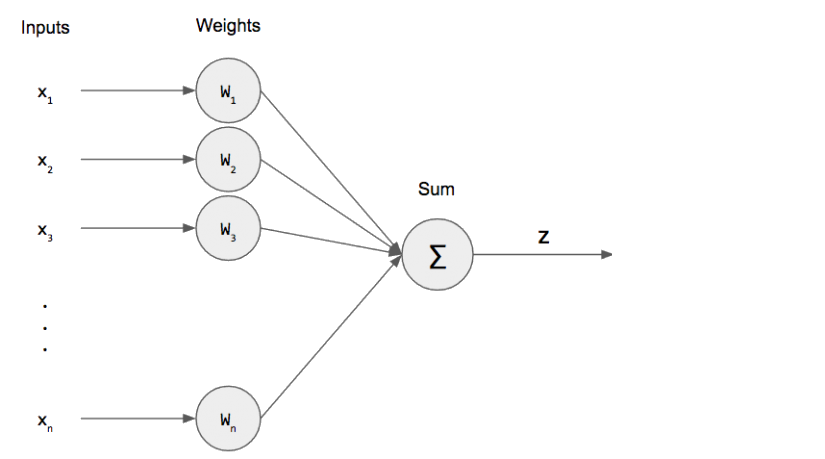
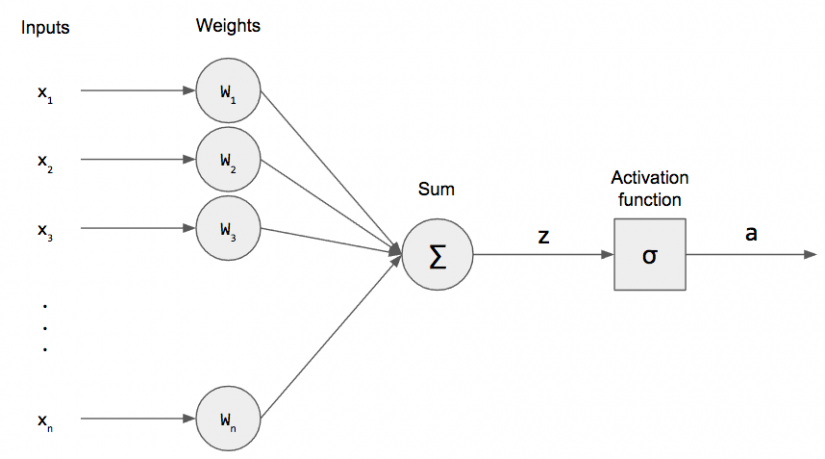
Add commantes

Changed region(s): [[0.7273, 0.366, 1.0, 0.6405], [0.9091, 0.488, 0.9394, 0.5185]]

diff --git a/Perceptron Algorithm/FileModification.java b/Perceptron Algorithm/FileModification.java
@@ -6,29 +6,38 @@ import java.io.IOException;
 import java.io.PrintWriter;
 import java.nio.charset.Charset;
 import java.nio.file.Files;
-import java.nio.file.Path;
 import java.util.ArrayList;
 import java.util.stream.Stream;
 
+/**
+ * @author Moshe
+ * @since 4/4/2018
+ */
 public class FileModification {
 
 	private File file;
 	private long numOfLines;
 
 	/**
-	 * 
 	 * @param String path - path of a file
 	 * @throws IOException
 	 */
 	public FileModification(String path) throws IOException {
 
 		file = new File(path);
-		if(!file.exists()) { 
+		if(!file.exists()) {
+
 			throw new FileNotFoundException("Could not find file: " + file.getName());
+
 		}
 		numOfLines = -1;
 	}
 
+	/**
+	 * 
+	 * @return The number of lines in the file.
+	 * @throws IOException
+	 */
 	public long numOfLinesInFile() throws IOException
 	{
 		if(numOfLines == -1){
@@ -40,18 +49,22 @@ public class FileModification {
 		return numOfLines;
 	}
 
-	/*
+	/**
 	 * 
+	 * @param percent - Array preserves the desired distribution of the number of rows per file in percentages.
+	 * @param numOfSkipHeaderLine - Number of title rows that we need to skip and don't read.
+	 * @return - Array of ArrayList<String>. each ArrayList<String> holds rows according to the percentages given to the function.
 	 */
-	public ArrayList<String>[] splitRandomly(int[] percent,int numOfSkipHeaderLine)
+	public ArrayList<String>[] splitFile(int[] percent,int numOfSkipHeaderLine)
 	{
 		long[] linesForThePercent = null;
 
-		try {
+		try {//Calculate how many actual rows fit for each percentage
 			linesForThePercent = CalculateLines(percent,numOfLinesInFile(),numOfSkipHeaderLine);
 		} catch (IOException e1) {
 			e1.printStackTrace();
 		}
+		//The array is returned
 		ArrayList<String>[] testAndTry = new ArrayList[linesForThePercent.length];
 
 
@@ -66,43 +79,53 @@ public class FileModification {
 
 			for (int i = 0; i < linesForThePercent.length; i++) {
 
+				//Create a file that contain the rows for a specified percent
 				writer = new PrintWriter(getFilePathWithoutName() + "/" + getFileNameWhitoutType() + "_" + i + "." + getFileType(), "UTF-8");
-				testAndTry[i] = new ArrayList<>();
 				
+				testAndTry[i] = new ArrayList<>();
+
 				for (int j = 0; j < linesForThePercent[i]; j++) {
 					String s = br.readLine();
 					testAndTry[i].add(s);
 					writer.println(s);
 				}
-				
 				writer.close();
 			}
 		}
 		catch (Exception e) {
 			e.printStackTrace();
 		}
-		finally
-		{
-		}
+
 		return testAndTry;
 	}
 
+	//For example: for folder/somefile.csv return .csv
 	private String getFileType() {
 		return file.getName().substring(file.getName().indexOf(".") + 1);
 	}
 
+	//For example: for folder/somefile.csv return somefile
 	private String getFileNameWhitoutType() {
 		return file.getName().substring(0,file.getName().indexOf("."));
 	}
 
+	//For example: for folder/somefile.csv return folder
 	private String getFilePathWithoutName() {
 		return file.getParent();
 	}
 
+	/**
+	 * Calculate how many actual rows fit for each percentage
+	 * 
+	 * @param percent - Array preserves the desired distribution of the number of rows per file in percentages. 
+	 * @param numOfLinesInFile - Numbers of rows in this file
+	 * @param numOfSkipHeaderLine - Number of title rows that we need to skip and don't read.
+	 * @return The array that contain how many actual rows fit for each percentage.
+	 */
 	private long[] CalculateLines(int[] percent, long numOfLinesInFile, int numOfSkipHeaderLine) {
 
 		long[] retArr = new long[percent.length];
-		
+
 		long linesWithoutTitles = numOfLinesInFile - numOfSkipHeaderLine;
 
 		int countOfLines = 0;

diff --git a/Perceptron Algorithm/main.java b/Perceptron Algorithm/main.java
@@ -1,16 +1,12 @@
-import java.io.BufferedReader;
 import java.io.File;
-import java.io.FileReader;
 import java.io.IOException;
 import java.util.ArrayList;
-import java.util.Arrays;
-import java.util.Collection;
 import java.util.Collections;
-import java.util.List;
-import java.util.stream.Collectors;
-import java.util.stream.IntStream;
 
-
+/**
+ * @author Moshe, Ehud and Reut
+ * @since 13/4/2018
+ */
 public class main {
 
 	/**
@@ -18,62 +14,38 @@ public class main {
 	 */
 	public static void main(String[] args) {
 
+		//The source folder of the data
 		File folder = new File("src/Latters/");
+		//Array of the files in the source folder
 		File[] listOfFiles = folder.listFiles();
-		
-		ArrayList<String> shmonim = new ArrayList<>();//80%
-		ArrayList<String> esrim = new ArrayList<>();//20%
-		
-		int[] arr = {20,80};
-		
+
+		//These arrays hold the rows that return files by percentage 
+		ArrayList<String> eighty = new ArrayList<>();//80%
+		ArrayList<String> twenty = new ArrayList<>();//20%
+
+		//This array preserves the desired distribution of the number of rows per file in percentages
+		int[] percentages = {20,80};
+
 		FileModification fm;
-		
-		
+
+		//Go through each of the data files to divide the desired shape
 		for (int i = 0; i < listOfFiles.length; i++) {
 			try {
-				fm = new FileModification(listOfFiles[i].getAbsolutePath());
+				fm = new FileModification(listOfFiles[i].getAbsolutePath());//Holding a specific file
 				System.out.println(fm.numOfLinesInFile());
-				ArrayList<String>[] temp = fm.splitRandomly(arr, 1);
-				//			for (int i = 0; i < temp.length; i++) {
-				shmonim.addAll(temp[1]);
-				esrim.addAll(temp[0]);
-				//			}
+
+				//Split the file by percentage.
+				//The 80% of the file is returned in the temp[1] and the 20% of the file is returned in the temp[0]
+				ArrayList<String>[] temp = fm.splitFile(percentages, 1);
+				eighty.addAll(temp[1]);
+				twenty.addAll(temp[0]);
 			} catch (IOException e) {
-				// TODO Auto-generated catch block
 				e.printStackTrace();
 			}
 		}
-		
-        Collections.shuffle(esrim);
-        Collections.shuffle(shmonim);
-		
-        
-        
-        
-        
-        
-        
-        
-        
-        
-        
-        
-        
-        
-        
-        
-        
-        
-        
-//		try(FileReader fr = new FileReader("src/Latters/Bet.csv"))
-//		{
-//			BufferedReader br = new BufferedReader(fr);		
-//			System.out.println(br.readLine());
-//			
-//		}
-//		catch (Exception e) {
-//			System.out.println(e);
-//		}
-	}
 
+		//Have to scramble the information so that the letters are not arranged in order but will be messy
+		Collections.shuffle(eighty);
+		Collections.shuffle(twenty);
+	}
 }

diff --git a/Perceptron Algorithm/README.md b/Perceptron Algorithm/README.md
@@ -3,11 +3,12 @@
 A parasitron is a single neuron that is constructed as follows:
 
 # ![diagram](https://github.com/GeekCSA/Deep-learning/blob/master/Perceptron%20Algorithm/Single-Perceptron.png?raw=true "Perceptron")
+###### from https://pythonmachinelearning.pro/perceptrons-the-first-neural-networks/
 
 1. The input is bits of '0' or '1'
 2. Each input bit has a number that represents the weight of the input on the same bit.
-3. In sum, we sum the product W_i * X_i when N = 0.
-4. If the above amount has passed a certain threshold then another output '1' will be output '0'.
+3. In sum, we sum the product W_i * X_i when 1 <= i <= n. (equals to z)
+4. In activation function, if the above amount has passed a certain threshold then another output '1' will be output '0'.
 
 If we passed the threshold then the input should be received otherwise it should not be accepted. In order for the neuron to produce only 1 on the inputs to be obtained, the weights W_1 to W_n should be in the correct values.
 
